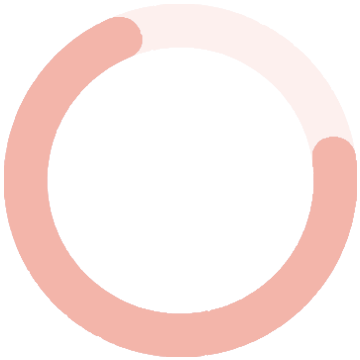
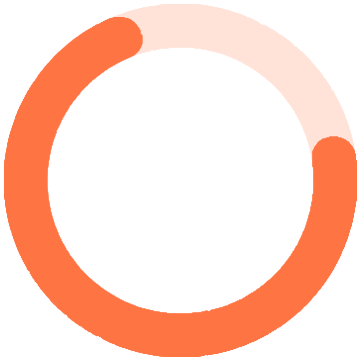
a

Changed region(s): [[0.0, 0.0306, 1.0, 1.0]]

diff --git a/index.html b/index.html
@@ -72,7 +72,7 @@
       #loading-progress-bar {
         height: 100%;
         width: 0%;
-        background: #4CAF50;
+        background: #FF7443;
         transition: width 0.3s;
       }
       
